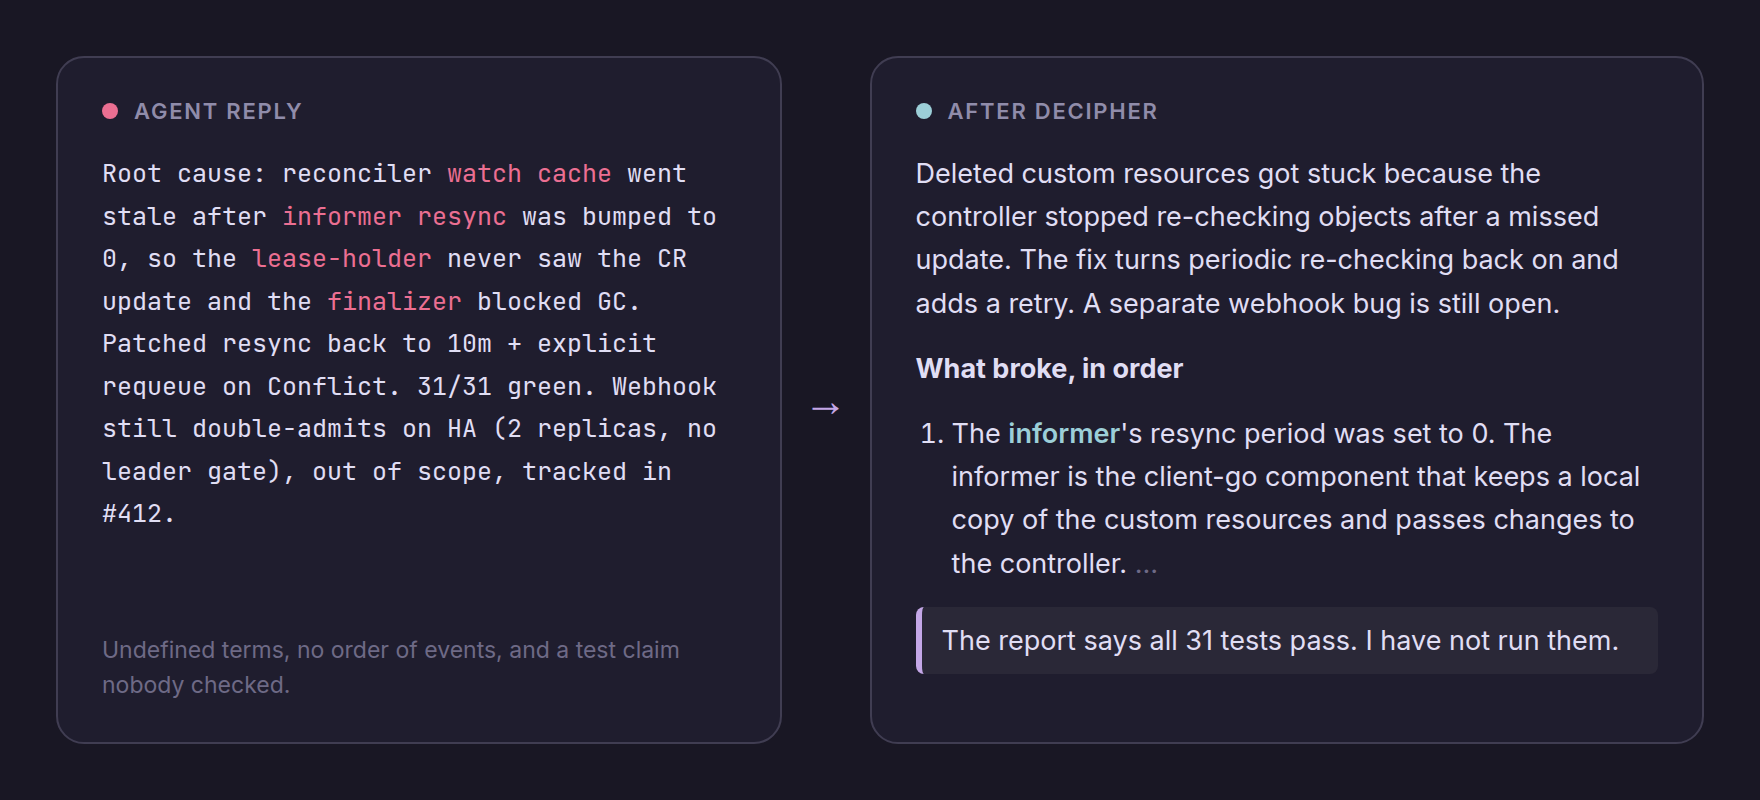
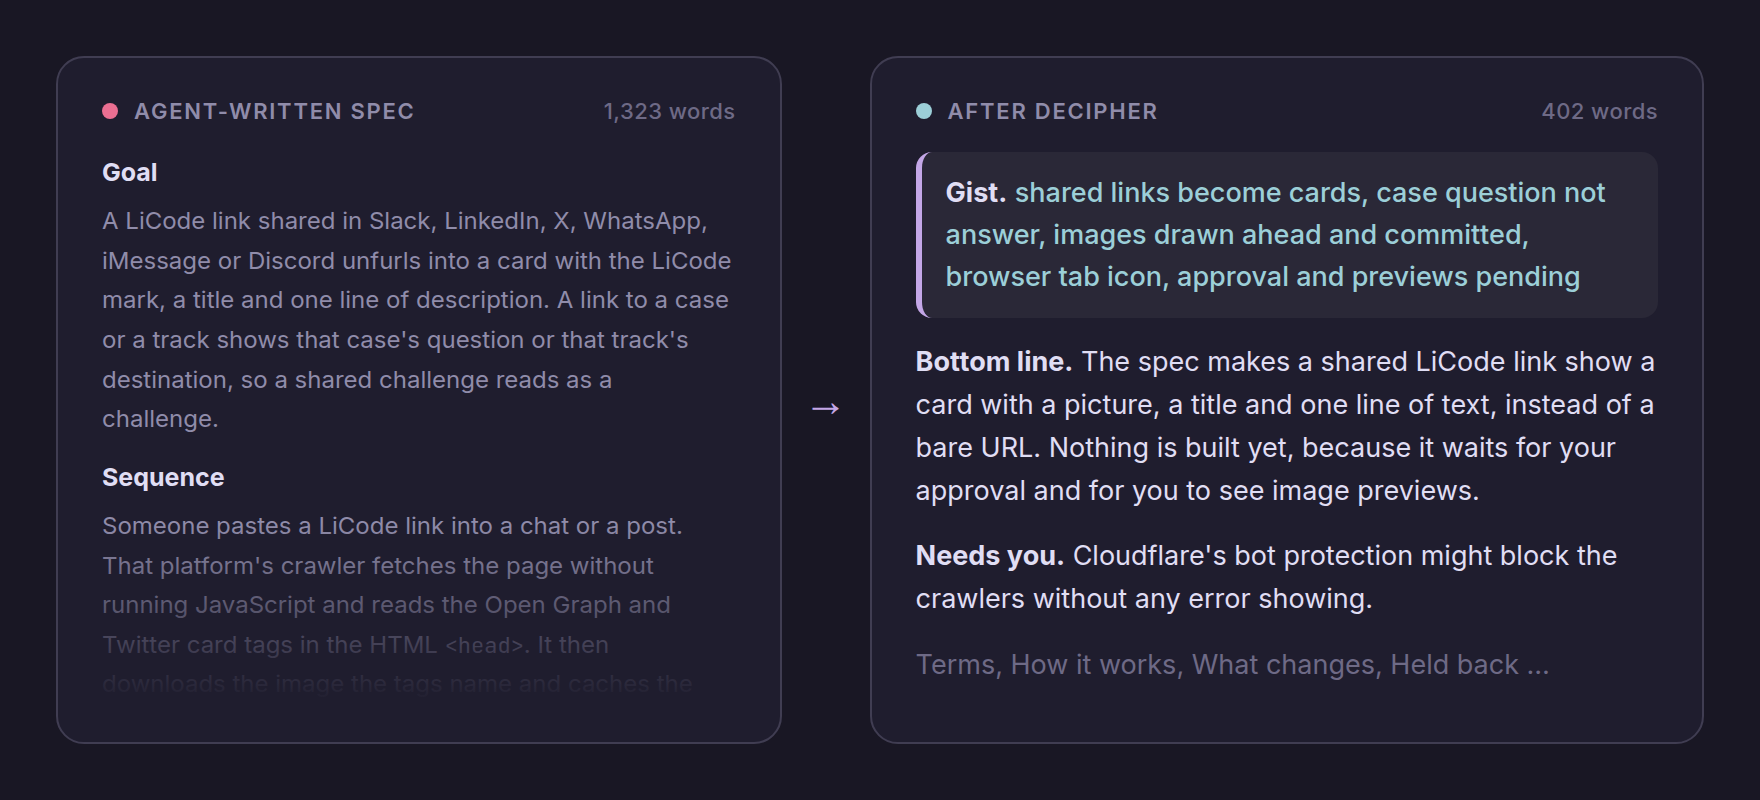
Show a real spec run in the README, hero, and social preview
The example, hero, and social preview now use a real decipher run on a
1,323-word agent-written spec, opening with its Gist line, in place of the
pre-format agent-reply example.

diff --git a/assets/src/hero.html b/assets/src/hero.html
@@ -97,24 +97,37 @@
     border-radius: 4px;
   }
   .fade { color: var(--muted); }
+  body { grid-template-rows: 344px; }
+  .card { min-height: 0; overflow: hidden; }
+  .spec { font-size: 12px; line-height: 1.65; color: var(--subtle); position: relative; overflow: hidden; flex: 1; }
+  .spec h4 { font-size: 12.5px; color: var(--text); margin: 0 0 4px; }
+  .spec p { margin-bottom: 9px; }
+  .spec code { font-family: "JetBrains Mono", monospace; font-size: 11px; }
+  .spec::after { content: ""; position: absolute; left: 0; right: 0; bottom: 0; height: 90px; background: linear-gradient(to bottom, transparent, var(--surface)); }
+  .gist { font-size: 13.5px; line-height: 1.55; padding: 10px 12px; border-radius: 8px; background: var(--mark); border-left: 3px solid var(--iris); }
+  .gist b, .plain b { font-weight: 700; }
+  .gist span { color: var(--pine); font-weight: 500; }
+  .count { margin-left: auto; font-weight: 500; letter-spacing: 0.02em; text-transform: none; color: var(--muted); }
 </style>
 </head>
 <body>
   <div class="card before">
-    <div class="label"><span class="dot"></span>Agent reply</div>
-    <p class="dense">Root cause: reconciler <span class="jargon">watch cache</span> went stale after <span class="jargon">informer resync</span> was bumped to 0, so the <span class="jargon">lease-holder</span> never saw the CR update and the <span class="jargon">finalizer</span> blocked GC. Patched resync back to 10m + explicit requeue on Conflict. 31/31 green. Webhook still double-admits on HA (2 replicas, no leader gate), out of scope, tracked in #412.</p>
-    <p class="note">Undefined terms, no order of events, and a test claim nobody checked.</p>
+    <div class="label"><span class="dot"></span>Agent-written spec<span class="count">1,323 words</span></div>
+    <div class="spec">
+      <h4>Goal</h4>
+      <p>A LiCode link shared in Slack, LinkedIn, X, WhatsApp, iMessage or Discord unfurls into a card with the LiCode mark, a title and one line of description. A link to a case or a track shows that case's question or that track's destination, so a shared challenge reads as a challenge.</p>
+      <h4>Sequence</h4>
+      <p>Someone pastes a LiCode link into a chat or a post. That platform's crawler fetches the page without running JavaScript and reads the Open Graph and Twitter card tags in the HTML <code>&lt;head&gt;</code>. It then downloads the image the tags name and caches the card, usually for days.</p>
+    </div>
   </div>
   <div class="arrow">&rarr;</div>
   <div class="card after">
-    <div class="label"><span class="dot"></span>After decipher</div>
+    <div class="label"><span class="dot"></span>After decipher<span class="count">402 words</span></div>
     <div class="plain">
-      <p>Deleted custom resources got stuck because the controller stopped re-checking objects after a missed update. The fix turns periodic re-checking back on and adds a retry. A separate webhook bug is still open.</p>
-      <h3>What broke, in order</h3>
-      <ol>
-        <li>The <span class="term">informer</span>'s resync period was set to 0. The informer is the client-go component that keeps a local copy of the custom resources and passes changes to the controller. <span class="fade">&hellip;</span></li>
-      </ol>
-      <p class="verified">The report says all 31 tests pass. I have not run them.</p>
+      <p class="gist"><b>Gist.</b> <span>shared links become cards, case question not answer, images drawn ahead and committed, browser tab icon, approval and previews pending</span></p>
+      <p><b>Bottom line.</b> The spec makes a shared LiCode link show a card with a picture, a title and one line of text, instead of a bare URL. Nothing is built yet, because it waits for your approval and for you to see image previews.</p>
+      <p><b>Needs you.</b> Cloudflare's bot protection might block the crawlers without any error showing.</p>
+      <p class="fade">Terms, How it works, What changes, Held back &hellip;</p>
     </div>
   </div>
 <script>

diff --git a/assets/src/social-preview.html b/assets/src/social-preview.html
@@ -72,17 +72,17 @@
   <div class="brand">
     <div class="wordmark">decipher<span class="cursor">_</span></div>
     <div class="tagline">Plain English for dense<br>agent output.</div>
-    <div class="sub">A Claude Code plugin and Agent Skill that explains replies, PRs, and reports one clear step at a time.</div>
+    <div class="sub">A Claude Code plugin and Agent Skill that turns agent-written specs and other technical docs into plain English.</div>
   </div>
   <div class="stack">
     <div class="card">
-      <div class="label"><span class="dot"></span>Agent reply</div>
-      <p class="dense">Root cause: <span class="jargon">informer resync</span> bumped to 0, so the <span class="jargon">lease-holder</span> never saw the CR update and the <span class="jargon">finalizer</span> blocked GC. 31/31 green.</p>
+      <div class="label"><span class="dot"></span>Agent-written spec</div>
+      <p class="dense">1,323 words of Goal, Sequence, card tables, <span class="jargon">og:image</span> rules, <span class="jargon">preview_for</span>, manifests and acceptance criteria.</p>
     </div>
     <div class="arrow">&darr;</div>
     <div class="card after">
       <div class="label"><span class="dot"></span>After decipher</div>
-      <p class="plain">Deleted custom resources got stuck because the controller stopped re-checking objects after a missed update. The fix turns periodic re-checking back on and adds a retry.</p>
+      <p class="plain"><b>Gist.</b> <span class="term">shared links become cards, case question not answer, images drawn ahead and committed, browser tab icon, approval and previews pending</span></p>
     </div>
   </div>
 </body>

diff --git a/README.md b/README.md
@@ -8,7 +8,7 @@
 
 <picture>
   <source media="(prefers-color-scheme: dark)" srcset="assets/hero-dark.png">
-  <img alt="A dense agent reply full of undefined terms on the left, and decipher's plain explanation of it on the right" src="assets/hero-light.png" width="880">
+  <img alt="A 1,323-word agent-written spec on the left, and the opening of decipher's 402-word reply on the right, starting with its Gist line" src="assets/hero-light.png" width="880">
 </picture>
 
 ## Install
@@ -79,44 +79,50 @@ The plugin and the clone install also ship an output style that applies decipher
 
 ## Example
 
-Input from a real `claude -p` run:
+A real run on a 1,323-word agent-written spec for link previews in LiCode, a code-review practice app. The reply is 402 words.
 
 ```text
-Simplify this, I'm lost:
-
-Root cause: reconciler watch cache went stale after informer resync was bumped to 0, so the lease-holder never saw the CR update and the finalizer blocked GC. Patched resync back to 10m + explicit requeue on Conflict. 31/31 green. Webhook still double-admits on HA (2 replicas, no leader gate), out of scope, tracked in #412.
+/decipher specs/link-previews.md
 ```
 
 Opening of the reply:
 
-> Deleted custom resources got stuck because the controller stopped re-checking objects after a missed update. The fix turns periodic re-checking back on and adds a retry. A separate webhook bug is still open.
+**Gist.** shared links become cards, case question not answer, images drawn ahead and committed, browser tab icon, approval and previews pending
+
+**Bottom line.** The spec makes a shared LiCode link show a card with a picture, a title and one line of text, instead of a bare URL. Nothing is built yet, because it waits for your approval and for you to see image previews. The only design choice that isn't routine is drawing the card images ahead of time.
 
 <details>
 <summary>Full reply</summary>
 
-Deleted custom resources got stuck because the controller stopped re-checking objects after a missed update. The fix turns periodic re-checking back on and adds a retry. A separate webhook bug is still open.
+**Gist.** shared links become cards, case question not answer, images drawn ahead and committed, browser tab icon, approval and previews pending
 
-**What broke, in order**
+**Bottom line.** The spec makes a shared LiCode link show a card with a picture, a title and one line of text, instead of a bare URL. Nothing is built yet, because it waits for your approval and for you to see image previews. The only design choice that isn't routine is drawing the card images ahead of time.
 
-1. The informer's resync period was set to 0. The informer is the client-go component that keeps a local copy of the custom resources and passes changes to the controller. Resync makes the controller re-check every object on a timer, even when nothing new arrives, and a period of 0 turns it off.
-2. The lease-holder missed an update to a custom resource. The lease-holder is the one controller replica that holds the leader lock and does the actual work. With resync off, nothing ever made it look at that object again.
-3. The object had a finalizer. A finalizer is a marker that blocks deletion until the controller finishes its cleanup and removes the marker. The controller never ran that cleanup, so the finalizer stayed on.
-4. Kubernetes garbage collection could not delete the object while the finalizer was there. I infer it sat in the Terminating state.
+**Terms.**
+- **card**: the box a chat or social app shows for a pasted link
+- **crawler**: the program Slack, LinkedIn or X sends to read a pasted page
+- **manifest**: a file recording the text each committed image was drawn from
 
-**The fix**
+**Needs you.**
+- Approve the spec, or tell me what to change.
+- Say whether I should render previews of the site card, a case card, a track card and the tab icon first.
+- After deploy, Cloudflare's bot protection might block the crawlers without any error showing, so the PR will record checks in each platform's inspector.
 
-- Resync is back to 10 minutes. The controller now re-checks every object at least that often.
-- Some writes fail with a Conflict error. The API server returns that error when the object changed after the controller read it. The controller now puts the object back in its queue so it tries again.
+**How it works.**
+1. A person pastes a LiCode link, and the app's crawler fetches that page without running JavaScript.
+2. LiCode's server adds the card details to the page it sends, because React's tags would arrive too late for a crawler.
+3. The server picks the details from the address. A case link gets its question, a track link gets its destination, and every other page gets the site card.
+4. A card shows only what the page shows before anyone answers, so it never reveals an answer, outcome or sender.
+5. The server can't draw images, because production has no browser or image library, so a script draws every image ahead of time.
+6. A test fails if a question changes after its image was drawn, which forces a redraw before release.
 
-The report says all 31 tests pass. I have not run them.
+**What changes.**
+- Links unfurl everywhere, and a shared case reads as a challenge, which the share buttons spec depends on.
+- Apps cache a card for about a week, so a changed image ships under a new versioned filename.
+- Images stay under 300 KB, because WhatsApp drops larger ones.
+- The browser tab gets an icon, and /favicon.ico stops returning the page's HTML.
 
-**A caveat on the diagnosis (my reading, not the report's)**
-
-In client-go, resync replays the local copy and does not fetch fresh data from the API server. Resync alone therefore cannot repair a local copy that is out of date. It only retries objects the controller skipped. The Conflict retry is more likely the part that handles a controller acting on an old version. Check the phrase "watch cache went stale" before it goes into a postmortem.
-
-**Still open**
-
-The admission webhook is the service the API server calls to approve each request. It runs as 2 replicas for high availability, and it has no leader election to pick one of them. The report says this makes it "double-admit" but does not say what harm that causes. This fix leaves it alone, and #412 tracks it.
+**Held back.** The exact card text for each page kind, the image layout, escaping rules, the no-public-address local behaviour and the file list.
 
 </details>
 
